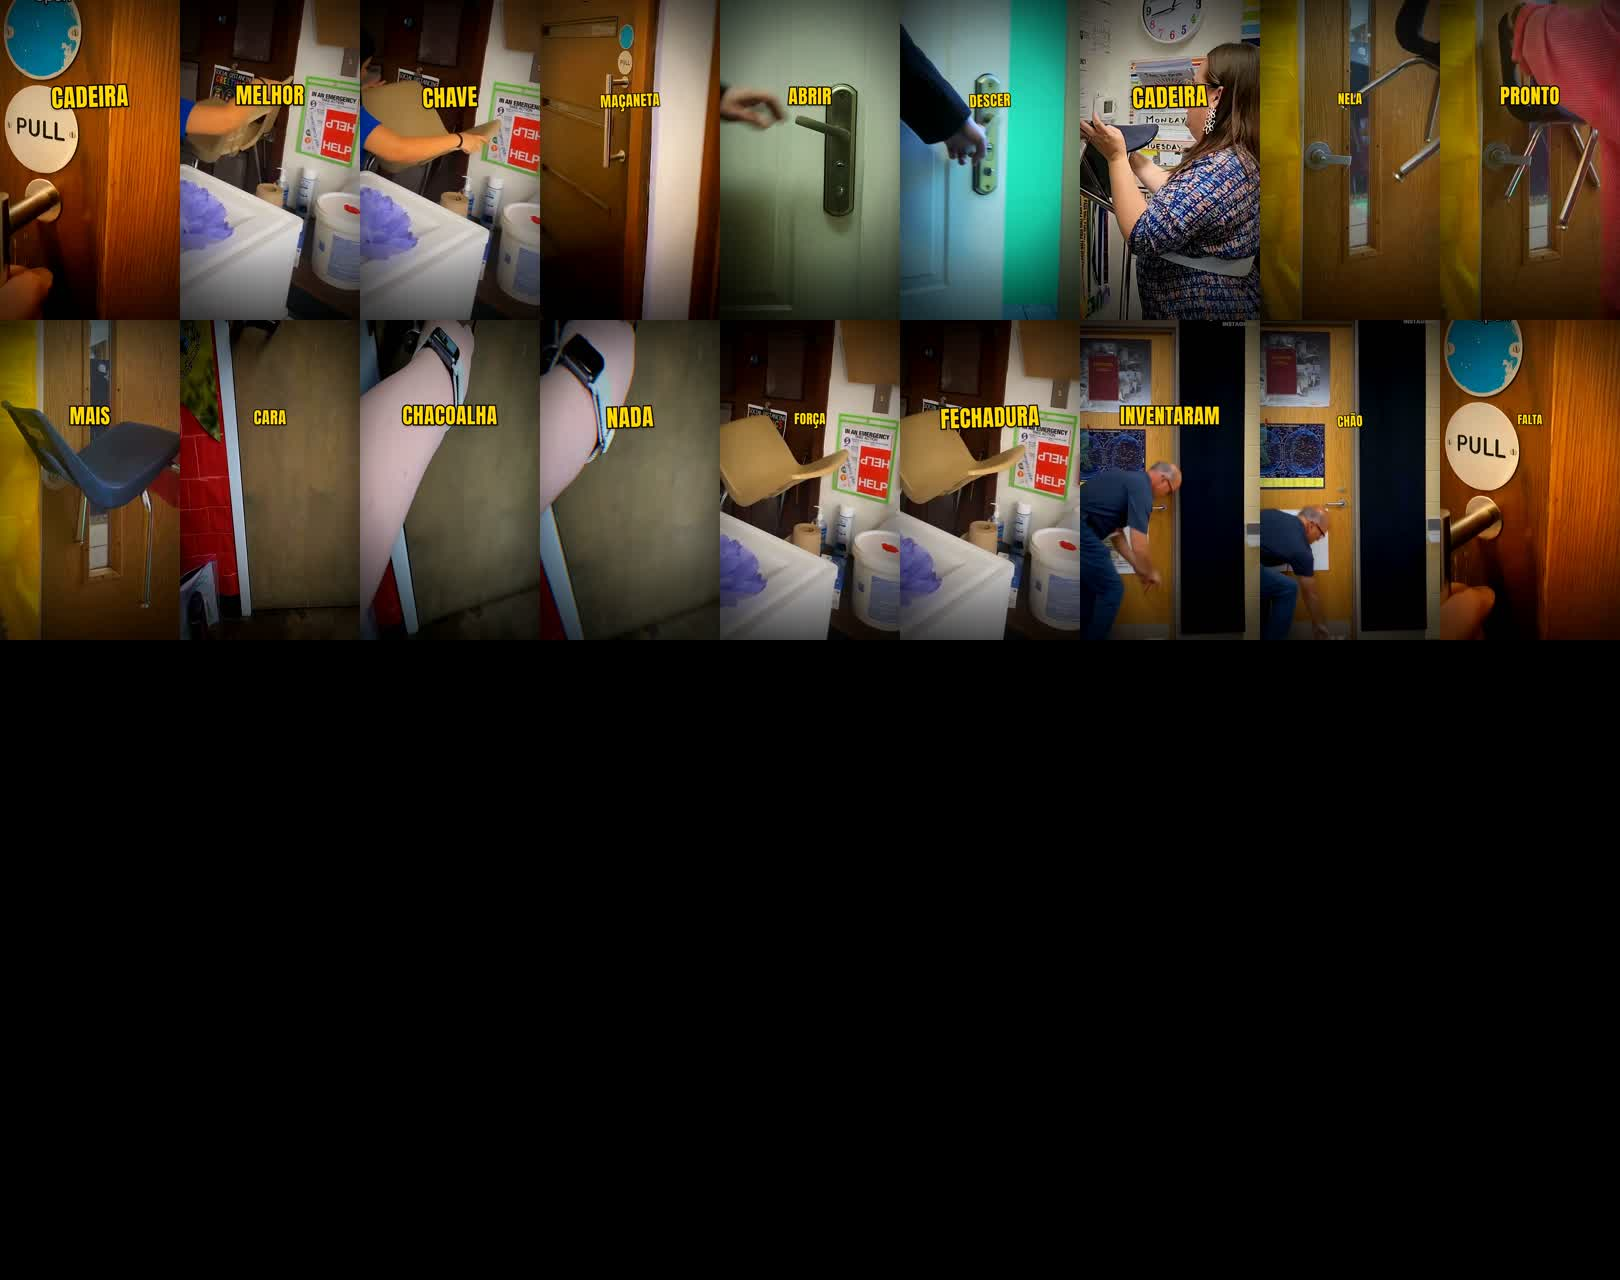
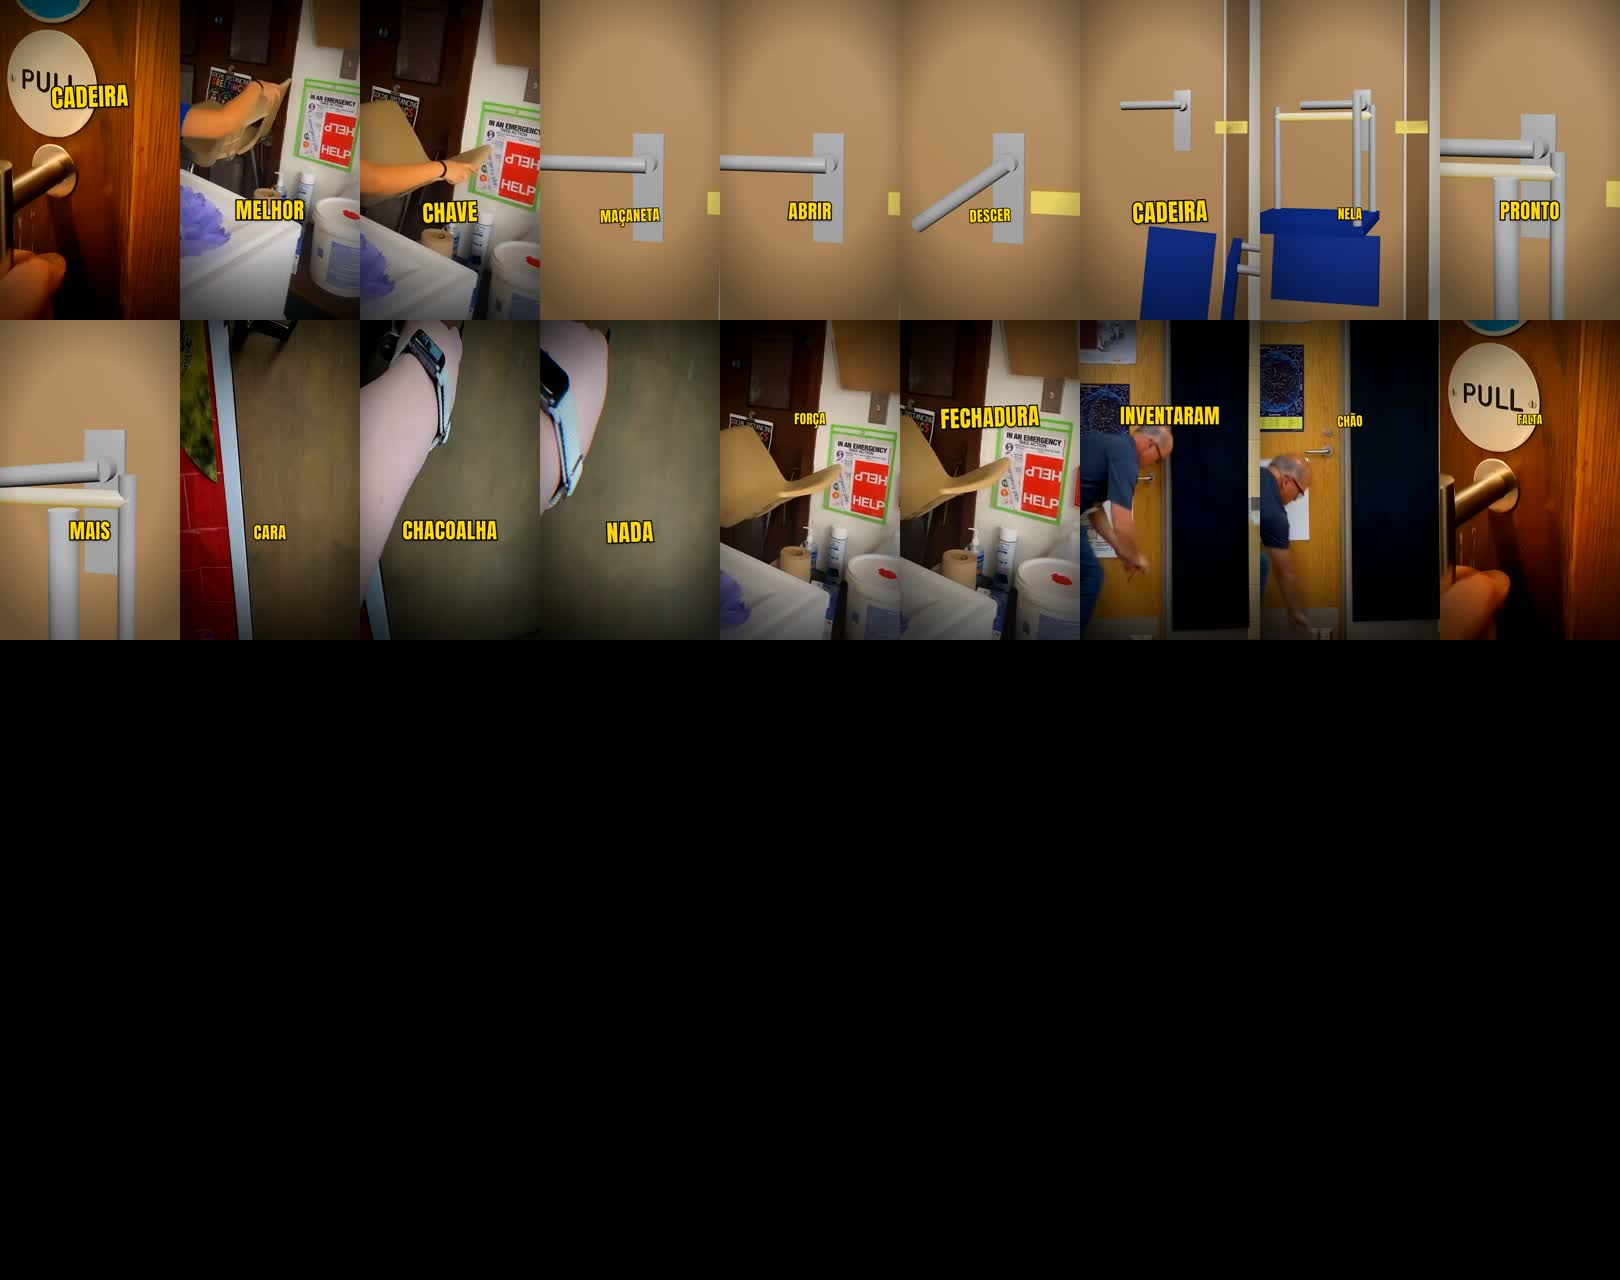
vd022 v2: render LIBERADO com 3D e câmera guiada; revisar ignora trechos 3D na busca de tela final
Claude-Session: https://claude.ai/code/session_01Pz7vxCnuqDDdxFwbWQrGb6

diff --git a/viitu/revisar.py b/viitu/revisar.py
@@ -183,7 +183,11 @@ def revisar(projeto: str) -> bool:
         linhas.append(np.hstack([faixa] + tiles + [np.zeros((320, 180, 3), np.uint8)] * (3 - len(tiles))))
     # varredura QUADRO A QUADRO do vídeo final: nenhuma tela final de TikTok/Reels pode aparecer
     from viitu.editar import eh_tela_final
+    # animação 3D tem fundo liso e cara de "tela final" para o detector (vd022: falso alarme) — não varre esses trechos
+    trechos_3d = [(a["f0"], a["f1"]) for a in plano.get("animacoes", [])]
     for f in range(0, total, 2):
+        if any(a <= f < b for a, b in trechos_3d):
+            continue
         img = _quadro(cap, f)
         if img is not None and eh_tela_final(img):
             problemas.append(f"TELA FINAL de TikTok/Reels aparece em {f / FPS:.2f}s")

diff --git a/projetos/vd022_cadeira_porta/saida/direitos.md b/projetos/vd022_cadeira_porta/saida/direitos.md
@@ -7,15 +7,12 @@
 | ✅ | Efeitos sonoros e foley | assets/sfx e assets/foley, gerados no ElevenLabs (próprios) |
 | ✅ | Sons profissionais (camadas de foley) | Sonniss GDC Game Audio Bundle: royalty-free, YouTube monetizado, sem crédito |
 | ✅ | Fonte da legenda | Anton, licença SIL Open Font License |
+| ✅ | Animações explicativas | desenhadas em código no Remotion (próprias) |
 | ⚠ | ia_puxa.mp4 | terceiro SEM permissão registrada: crédito obrigatório na descrição; pedir permissão |
 | ⚠ | hinojosaara_c.mp4 | terceiro SEM permissão registrada: crédito obrigatório na descrição; pedir permissão |
-| ⚠ | jake_c.mp4 | terceiro SEM permissão registrada: crédito obrigatório na descrição; pedir permissão |
-| ✅ | pixabay_11285.mp4 | Pixabay (licença livre) |
-| ⚠ | creedon_c.mp4 | terceiro SEM permissão registrada: crédito obrigatório na descrição; pedir permissão |
-| ⚠ | up2emmylou_c.mp4 | terceiro SEM permissão registrada: crédito obrigatório na descrição; pedir permissão |
 | ⚠ | creedon_fora_c.mp4 | terceiro SEM permissão registrada: crédito obrigatório na descrição; pedir permissão |
 | ⚠ | nightlock_aberto.mp4 | terceiro SEM permissão registrada: crédito obrigatório na descrição; pedir permissão |
 
 **RESULTADO:** ✅ liberado (⚠ = crédito na descrição + pedir permissão)
 
-**Créditos para a descrição:** Imagens: @jake_land1994, @hinojosaara, @creedonclan, @up2emmylou (TikTok); GreenCardShow (Pixabay); Nightlock via @interestingengineering. Música: "A Wonderful Nightmare" (chiptune) — SpiderDave (OpenGameArt, CC0).
+**Créditos para a descrição:** Imagens: @jake_land1994, @hinojosaara, @creedonclan (TikTok); Nightlock via @interestingengineering. Animação 3D: Viitu Shorts. Música: "A Wonderful Nightmare" (chiptune) — SpiderDave (OpenGameArt, CC0).

diff --git a/projetos/vd022_cadeira_porta/saida/auditoria.md b/projetos/vd022_cadeira_porta/saida/auditoria.md
@@ -3,11 +3,11 @@
 ## Medições
 - ✅ Loudness -14.5 LUFS (alvo −14)
 - ℹ Música 16 dB abaixo da voz sob a fala (definido pela especificação, não por esta medição)
-- ⚠ Sons de função em cima de palavra: ['cena_sfx_214_0.mp3', 'cena_sfx_337_0.mp3']
+- ⚠ Sons de função em cima de palavra: ['cena_sfx_337_0.mp3']
 - ✅ Quadros muito escuros: 0 (em )
-- ✅ Movimento nos 2 primeiros segundos: 74.1 (gancho precisa de ação)
+- ✅ Movimento nos 2 primeiros segundos: 78.9 (gancho precisa de ação)
 - ✅ Cenas curtas demais (<0,9 s, piscam): nenhuma
-- ✅ Cenas longas (>3,5 s, risco de tédio): nenhuma
+- ⚠ Cenas longas (>3,5 s, risco de tédio): [7.07]
 - ✅ Palavras que ficam < 0,17 s na tela (ilegíveis): 0 []
 - ✅ Folga depois da última palavra: 0.00s (loop pede ≤ 0,2 s)
 - ✅ Cenas 3D sem efeito sonoro próprio: nenhuma
